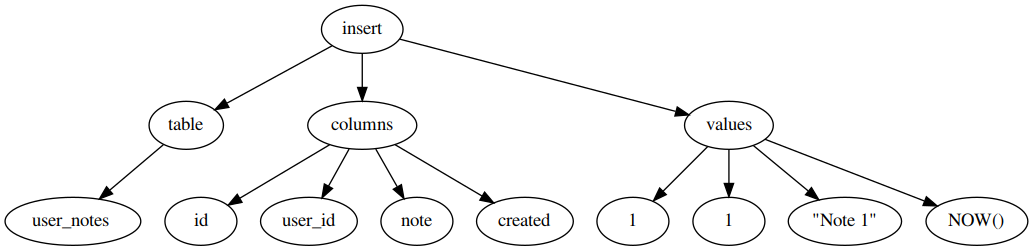
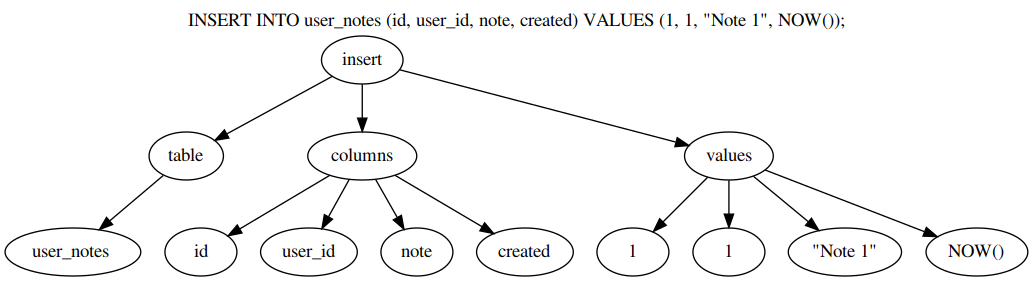
Add legend to generated graph images
* Minor bugfix on constness of helper function inputs.

diff --git a/src/tree.cpp b/src/tree.cpp
@@ -72,7 +72,7 @@ void tree::select_init() {
 void tree::select_set_table(const std::string& name) {
     node from_node {"from", "from"};
     m_root.children.push_back(from_node);
-    node table_node{"table",name};
+    node table_node{"table", name};
     table_node.children.push_back(table_node);
 }
 
@@ -219,22 +219,34 @@ void print_helper(const node& n, std::ostream& o) {
     }
 }
 
-void tree::save(const std::string& path) const {
+void tree::save(const std::string& path, const std::string& legend) const {
     std::ofstream f{path};
     if(!f.is_open()) {
         std::cerr << "Unable to open file: " << path << "!\n";
         return;
     }
-    f << to_dot_graph();
+    f << to_dot_graph(legend);
     f.close();
 }
 
-std::string tree::to_dot_graph() const {
+std::string tree::to_dot_graph(const std::string& legend) const {
     std::stringstream str;
     str << "digraph G {\n";
+    if(!legend.empty()) {
+        std::string label = legend;
+        replace_all(label, "\"", "\\\"");
+        str << "\tgraph [\n\tlabel = ";
+        str << "\"" << label << "\"\n";
+        str << "\tlabelloc = t\n";
+        str << "\t]\n";
+        str << "\tsubgraph {\n";
+    }
     print_nodes(m_root, str);
     print_helper(m_root, str);
     str << "}\n";
+    if(!legend.empty()) {
+        str << "}\n";
+    }
     return str.str();
 }
 

diff --git a/src/naive-lexer.hpp b/src/naive-lexer.hpp
@@ -36,7 +36,7 @@ class naive_lexer {
 public:
     naive_lexer();
     static std::string to_string(token t);
-    std::vector<std::pair<token, std::string>> tokenize(std::string& input);
+    std::vector<std::pair<token, std::string>> tokenize(std::string input);
     std::pair<token, std::string> next_token(std::string& input);
 private:
     std::vector<std::pair<token, std::regex>> acceptors;

diff --git a/src/tree.hpp b/src/tree.hpp
@@ -43,8 +43,8 @@ public:
     void use_init();
     void use_set_database(const std::string& table_name);
     //
-    void save(const std::string& path) const;
-    std::string to_dot_graph() const;
+    void save(const std::string& path, const std::string& legend = "") const;
+    std::string to_dot_graph(const std::string& legend = "") const;
     void reset();
 private:
     node m_root;

diff --git a/test/tst-sql-parser.cpp b/test/tst-sql-parser.cpp
@@ -26,7 +26,8 @@ int main(int argc, char* argv[]) {
                       << line << '\n';
             return EXIT_FAILURE;
         } else {
-            m.get_ast().save("statement_" + std::to_string(lineno) + ".dot");
+            m.get_ast().save("statement_" + std::to_string(lineno) + ".dot",
+                             line);
         }
     }
     return 0;

diff --git a/src/naive-lexer.cpp b/src/naive-lexer.cpp
@@ -76,7 +76,7 @@ std::string naive_lexer::to_string(token t) {
     }
 }
 
-std::vector<std::pair<token, std::string>> naive_lexer::tokenize(std::string& input) {
+std::vector<std::pair<token, std::string>> naive_lexer::tokenize(std::string input) {
     std::vector<std::pair<token, std::string>> tokens;
     bool found;
     do {
